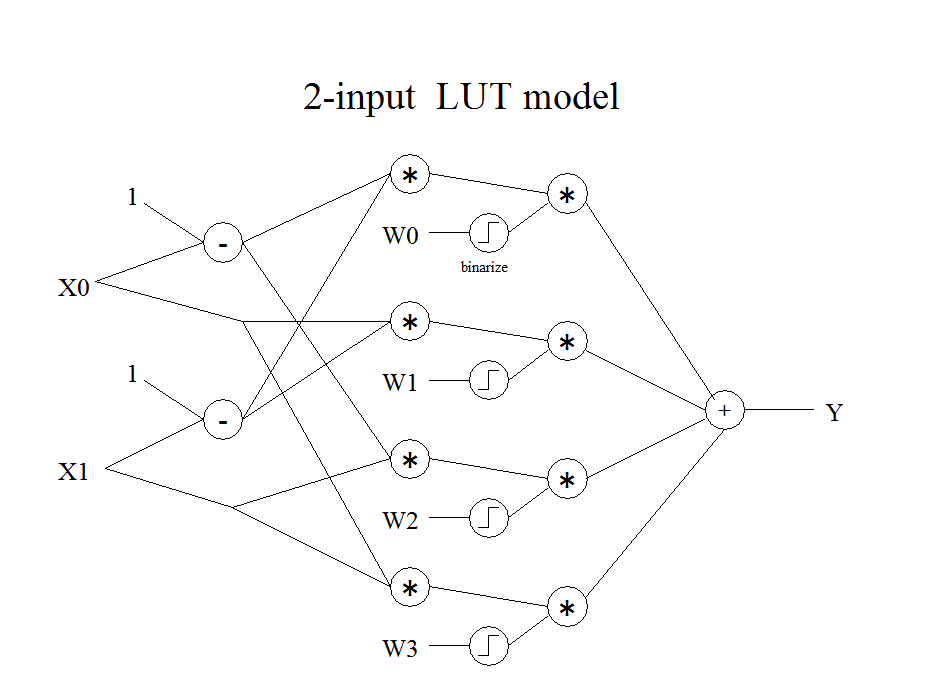
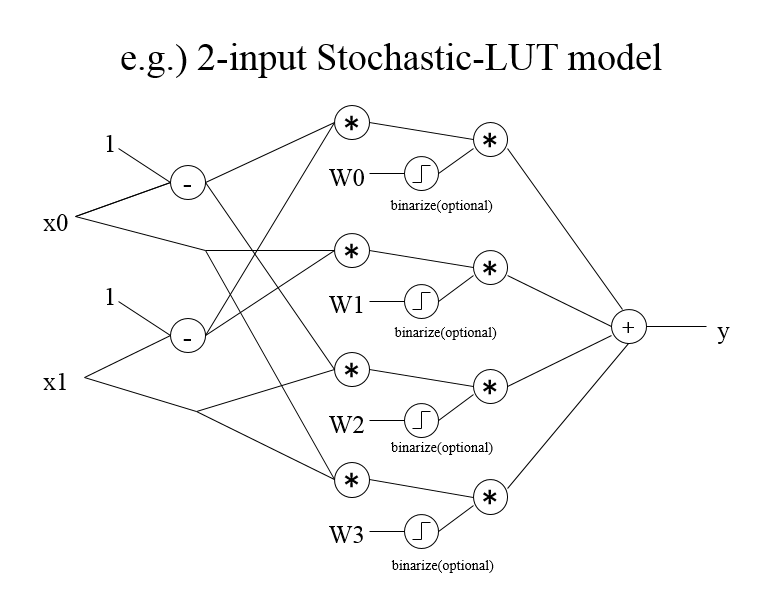
update README.md

diff --git a/README.md b/README.md
@@ -131,24 +131,26 @@ BinaryBrainではバイナリ変調したモデルを扱うことを前提とし
 
 ### 確率的LUTモデル
 BinaryBrainではLUT-Networkを学習させるためにバイナリ確率変数を入力として、バイナリ確率変数を出力するLUTのモデルを利用します。
+確率的LUTモデルは本物のLUTの回路のゲート演算をStochastic演算に置き換えた上で、その内部のLUTテーブルすら確率変数とした場合の出力を求めるように立式しています。
 簡単な説明のために、2入力LUT(テーブルサイズ4個)のモデルを以下に示します。
 
 ![stochastic_lut2.png](documents/images/stochastic_lut2.png "stochastic_lut2")
 
-これは、入力をX0-X1の確率変数とし、バイナリ値が1となる確率を実数値で入力します。
-また、W0-W3はルックアップテーブルの各値を示す実数値とします。
+これは、入力をx0-x1の確率変数とし、バイナリ値が1となる確率を実数値(FP32)で入力します。
+また、W0-W3はルックアップテーブルの各値を確率値を保表す実数値(FP32)とします。
 そうすると
 
-- W0が引かれる確率 : (1- X1) * (1- X0)
-- W1が引かれる確率 : (1- X1) * X0
-- W2が引かれる確率 : X1 * (1- X0)
-- W3が引かれる確率 : X1 * X0
+- W0が引かれる確率 : (1- x1) * (1- X0)
+- W1が引かれる確率 : (1- x1) * X0
+- W2が引かれる確率 : x1 * (1- X0)
+- W3が引かれる確率 : x1 * X0
 
-となるので、出力であるYである確率は、これらにW0-W3の値を乗じたものの和になります。
+となるので、出力であるyが1となる確率値は、これらにW0-W3の値を乗じたものの和になります。
 そしてこの計算ツリーは逆伝播可能であるので、W0-W3を学習させることが出来ます。
-結果的に、多値の入力をバイナリ変調した場合に結果を確率的に出力する回路を高パフォーマンスで実現できます。
+結果的に、多値の入力をバイナリ変調するなどで確率的バイナリにした場合に結果を確率的に出力する回路を高パフォーマンスで実現できます。
 これは逆伝播を作るための微分が可能であるため、誤差逆伝播による学習が可能で、極めて効率的にテーブルに該当するWパラメータを最適化できます。
-実際には6入力LUT用の計算式は64個のテーブルを引くために大きなグラフになりますが、同様の考え方で記述できます。
+Wは実数値を持つため、実際にはLUTテーブルに対応する異なる演算テーブルが確率に応じて重なり合って存在している状態を表すことになります。
+また、6入力LUT用の計算式は64個のテーブルを引くために大きなグラフになりますが、同様の考え方で記述できます。
 
 この回路で得られた出力はカウンティングして実数値にすることでLPF(Low Pass Filter)を通したのと同じ効果を得られるため、簡単に回帰問題などにも応用できる上、そのままFPGA化することができます。
 もちろん、そのまま普通のバイナリネットワークとして利用することも可能です。
